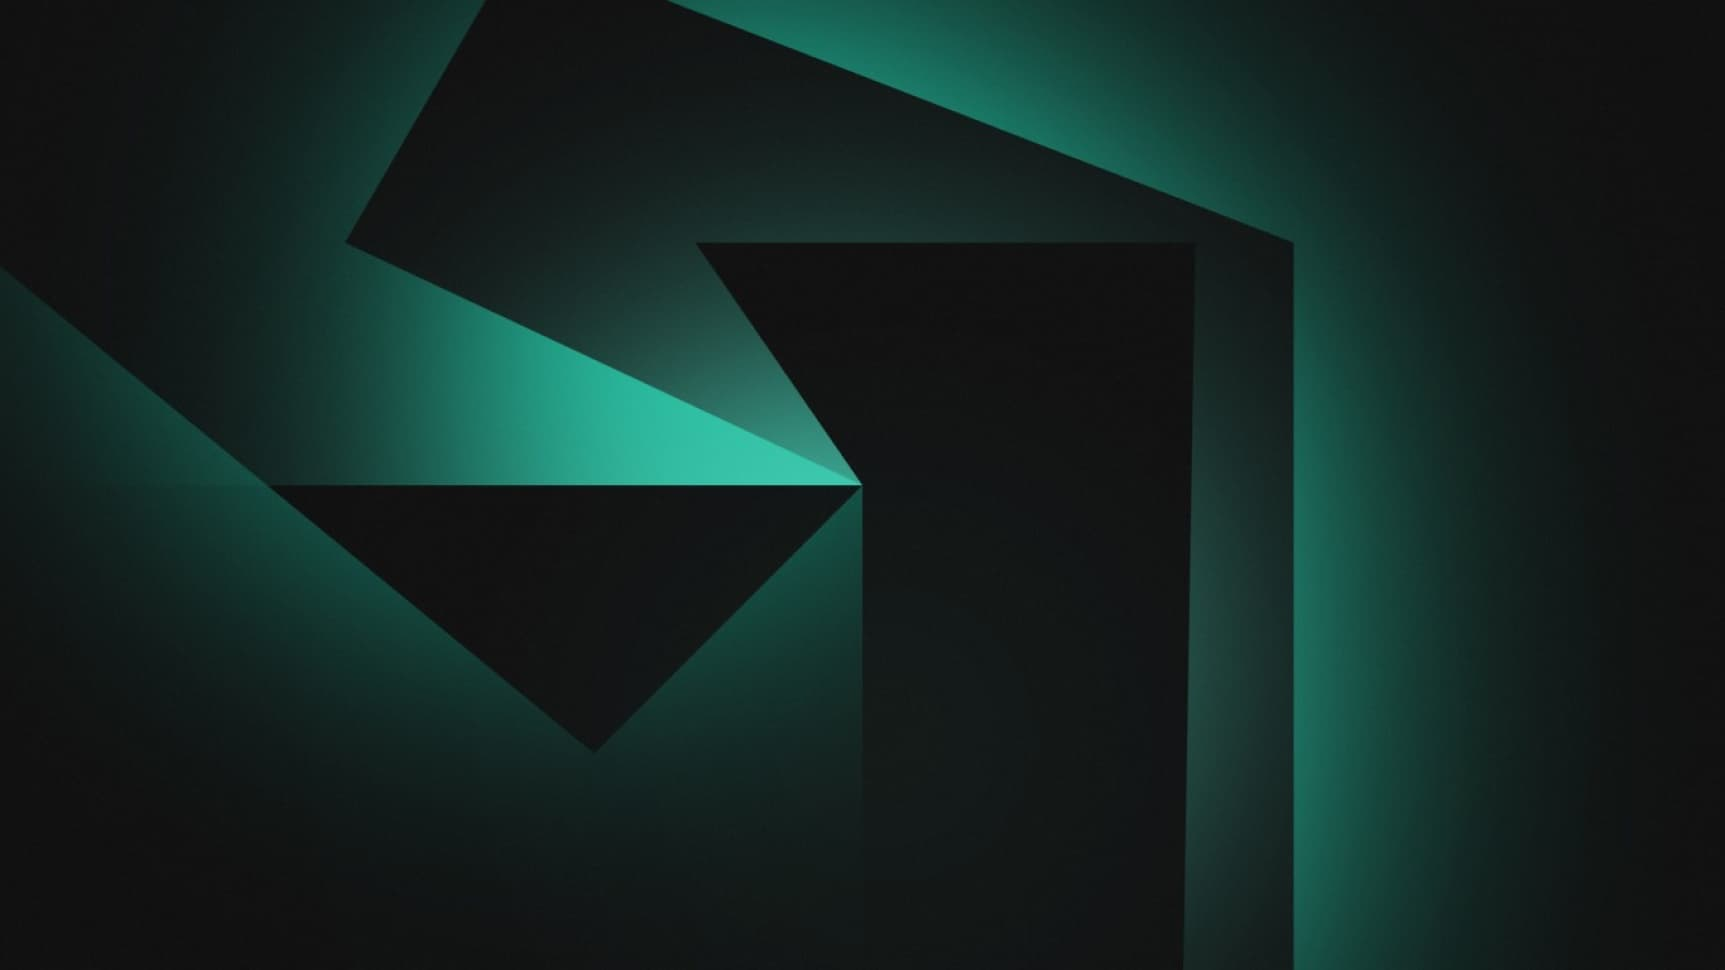
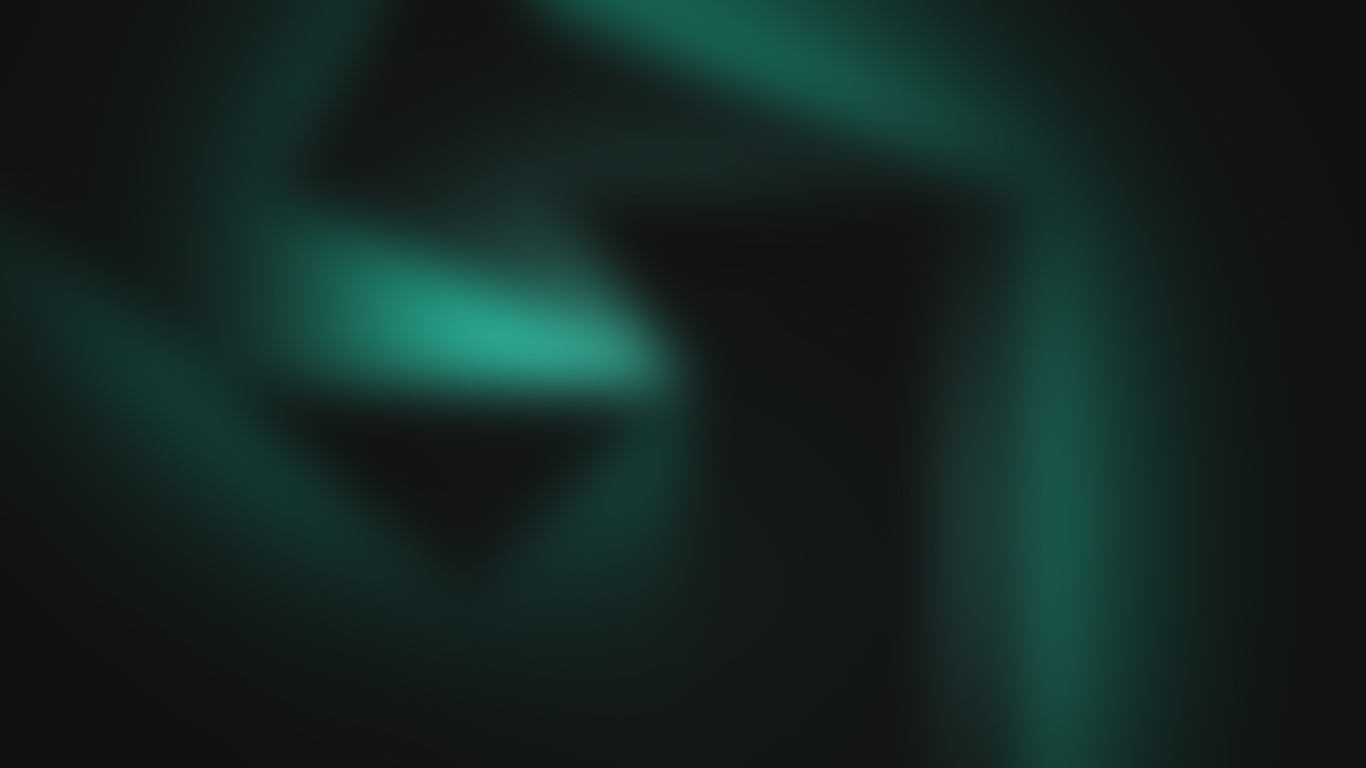
blur

diff --git a/src/sass/layouts/_home.scss b/src/sass/layouts/_home.scss
@@ -1,5 +1,5 @@
 .home {
-  width: 1780px;
+  width: 1920px;
 
   margin-left: auto;
   margin-right: auto;
@@ -15,14 +15,16 @@
   filter: drop-shadow(0px 4px 4px rgba(0, 0, 0, 0.25));
 }
 .blur {
-  backdrop-filter: blur(10px);
-}
+  backdrop-filter: blur(50px);
+ }
 .home__container {
   width: 1396px;
 
   padding-top: 240px;
   padding-bottom: 70px;
-  margin-left: 183px;
+  // margin-left: 250px;
+    margin-left: auto;
+    margin-right: auto;
 }
 
 .home__container--text {

diff --git a/src/sass/layouts/_slider.scss b/src/sass/layouts/_slider.scss
@@ -18,6 +18,7 @@
   -ms-flex-align: center;
   -webkit-align-items: center;
   align-items: center;
+  margin-right: 20px;
 }
 
 .swiper-wrapper {
